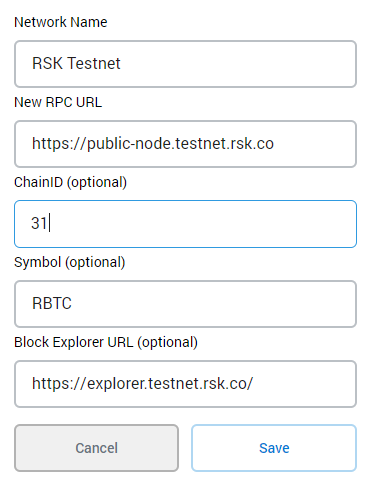
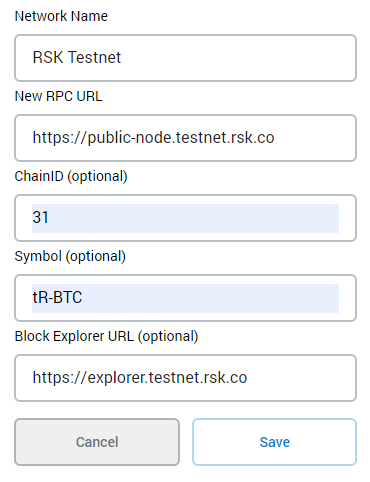
rsk port ethereum dapps

Changed region(s): [[0.0297, 0.0, 0.9811, 0.9647], [0.9514, 0.4046, 0.9811, 0.4979]]

diff --git a/content/blog/2020/rsk-port-ethereum-dapps/draft.md b/content/blog/2020/rsk-port-ethereum-dapps/draft.md
@@ -1,0 +1,193 @@
+---
+title: Migrando dApps do Ethereum para RSK
+date: "2020-07-15T18:00:00.000Z"
+description: "Conheça as possibilidades para migrar seus smart contracts e aplicações Ethereum para a rede RSK."
+tags: tutorial, rsk, ethereum, smart-contracts, truffle, remix
+type: blog
+---
+
+![Title](/images/image-00.png)
+
+# Overview
+
+Smart contracts na RSK são escritos em Solidity, que é a mesma linguagem dos Smart Contracts Ethereum. Desta forma não é necessário fazer nenhuma alteração para migrar um smart contract do Ethereum para RSK. Neste tutorial eu mostrarei algumas formas para realizar esta migração.
+
+Para saber mais sobre a linguagem Solidity, consulte sua [documentação](https://solidity.readthedocs.io/).
+
+Arquivos Solidity possuem a extensão `.sol`. Você pode criar ou alterar este tipo de arquivo em qualquer editor de texto, mas é mais produtivo utilizar editores específicos para linguagens de programação porque eles contém formatação, cores e verificação de sintaxe que facilitam a vida.
+
+Eu utilizo o [Visual Studio Code (VS Code)](https://code.visualstudio.com/).
+
+# Como publicar um smart contract na rede RSK
+
+Já falamos anteriormente que nada muda do smart contract Ethereum para o smart contract RSK. 
+
+Então... o que muda? 
+
+> Muda apenas a configuração de rede!
+
+Neste tutorial serão apresentadas instruções para a configuração de rede em 2 ferramentas diferentes:
+
+1. Remix
+2. Truffle
+
+# Remix
+
+Remix é uma ferramenta online. É um IDE (Integrated Development Environment - ambiente de desenvolvimento integrado) utilizado para escrever, compilar, publicar e depurar código fonte em Solidity. Pode ser conectado a uma carteira web, e em consequência disto, qualquer rede configurada nesta carteira.
+
+Pode ser acessado em [remix.ethereum.org](https://remix.ethereum.org/)
+
+Para utilizar o Remix, é preciso configurar a rede RSK em uma carteira web, como, por exemplo, o Metamask.
+
+## Metamask
+
+Vá em [metamask.io](https://metamask.io/) e faça a instalação.
+
+Crie uma conta / carteira.
+
+Salve seu mnemônico, ou frase de backup, ou seed (tudo isso significa a mesma coisa), com 12 palavras. Estas palavras serão a única forma de recuperar sua conta, se você esquecer ou perder sua senha.
+
+> O mnemônico é a parte mais importante em uma conta / carteira!
+
+## Conectando MetaMask a RSK testnet
+
+- Vá em networks / redes
+- Custom RPC
+
+![networks - custom RPC](/images/image-01.png)
+
+- Network Name / nome da rede
+
+    RSK Testnet
+
+- New RPC URL
+
+    [https://public-node.testnet.rsk.co](https://public-node.testnet.rsk.co)
+
+- ChainID (opcional)
+
+    31
+
+- Symbol / símbolo (opcional)
+
+    tR-BTC
+
+- Block Explorer URL (opcional)
+
+    https://explorer.testnet.rsk.co
+
+
+![RSK Testnet configuration](/images/image-02.png)
+
+Depois de configurar, feche a janela de configuração e selecione RSK Tesnet.
+
+## TestNet Faucet
+
+Para fazer a publicação, é preciso ter tR-BTCs na testnet.
+
+Você pode receber alguns em [faucet.testnet.rsk.co](https://faucet.testnet.rsk.co/).
+
+![faucet](/images/image-03.png)
+
+## Configurando o Remix
+
+Vá em [remix.ethereum.org](http://remix.ethereum.org/)
+
+![remix](/images/image-04.png)
+
+Na página inicial - home / welcome page, escolha o ambiente / environment `Solidity`.
+
+![Remix environment Solidity](/images/image-05.png)
+
+## Conectando o Remix a RSK Testnet através do Metamask
+
+Com a RSK network selecionada no Metamask...
+
+No painel à esquerda, clique no botão `Deploy and run transactions`. 
+Atualmente é o 4o botão.
+
+![deploy and run transactions](/images/image-06.png)
+
+Em Environment, escolha `Injected Web3`
+
+![Injected Web3](/images/image-10.png)
+
+Injected Web3 conecta Remix com a conta ativa / selecionada no Metamask
+
+![Injected Web3 - ChainID 31](/images/image-11.png)
+
+ChainID 31 foi definida na configuração da RSK Testnet no Metamask.
+
+Tudo pronto! Agora é possível fazer a publicação de qualquer smart contract na testnet RSK!
+
+O tutorial [Crie seu primeiro smart contract utilizando Remix e Metamask com a RSK testnet](https://solange.dev/2020/2020-03-27-Rsk-RemixMetamask/) contem mais detalhes e um smart contract básico para publicar. Confira como:
+
+1. Configurar Metamask para se conectar a testnet RSK;
+1. Adquirir alguns testnet R-BTCs no faucet;
+1. Conectar Remix com a RSK Testnet;
+1. Criar um smart contract no Remix;
+1. Compilar;
+1. Fazer a publicação na RSK Testnet utilizando Remix;
+1. Interagir com o smart contract;
+
+# Truffle
+
+[Truffle](https://www.trufflesuite.com/truffle) é um conhecido framework para desenvolvimento de smart contracts, que facilita a vida do desenvolvedor.
+
+Para conectá-lo à rede RSK network, utilizaremos um pacote provedor que possibilida a conexão a qualquer rede desbloqueando uma conta localmente:  
+[@truffle/hdwallet-provider](https://www.npmjs.com/package/@truffle/hdwallet-provider). 
+Desta forma é possível desbloquear uma conta localmente, a partir de um mnemônico. Isto inclui as redes da RSK. 
+
+Na parte de redes do Truffle config, é definido um provider utilizando o mnemônico gerador da carteira e apontando para o nó público da testnet RSK, através do `HD wallet provider`.
+
+`HD wallet provider` também é utilizado nas redes Ethereum, geralmente em conjunto com [Infura](https://infura.io/)para fazer a conexão à rede. `Infura` disponibiliza uma estrutura de nós para a rede Ethereum, seja a MainNet ou as diversas TestNets.
+
+Um ponto a destacar na configuração de uma rede é verificar o `gas price`. Sem esta verificação, a publicação de um smart contract pode ser demorada ou até mesmo apresentar erros e não acontecer. A rede Ethereum, por exemplo, neste momento (julho/2020), está com um gas price elevado nestes últimos meses devido ao grande número de transações relacionadas a DeFi - Decentralized Finance. Também é importante verificar o `gas price` na rede RSK.
+
+O tutorial [Como criar um projeto utilizando Truffle e OpenZeppelin conectado à rede RSK](https://solange.dev/2020/2020-05-10-Rsk-SetupTruffleOZ/) explica detalhadamente como:
+
+1. Instalar o Truffle;
+2. Inicializar um projeto utilizando Truffle;
+3. Instalar HD wallet provider;
+4. Criar um mnemônico para uma carteira;
+5. Adquirir alguns tR-BTCs no faucet;
+6. Testar a conexão à testnet RSK;
+7. Verificar o gas price na rede;
+8. Configurar Truffle para conectar à rede RSK;
+
+Depois de tudo configurado, minha sugestão é começar publicando através do Truffle o mesmo smart contract utilizado na publicação com o Remix :)
+
+# Próximos passos
+
+Aqui estão alguns tutoriais onde faremos projetos bem legais!
+
+Escolha um destes para começar:
+
+- [Crie seu primeiro token](https://solange.dev/2020/2020-04-26-Rsk-CreateToken/)
+- [Crie seu token colecionável na rede RSK](https://solange.dev/2020/2020-05-11-Rsk-CreateTokenNFT/)
+
+Você pode publicá-los na RSK ou Ethereum :)
+
+# Frontend
+
+O que acontece com o frontend de uma dApp que está configurada para a rede Ethereum? Muda alguma coisa?
+
+Não muda nada! Se a sua dApp está configurada para utilizar `Injected Web3`, ela vai continuar utilizando a conexão à carteira. Se a rede RSK está selecionada na carteira, está tudo pronto!
+
+Caso o frontend esteja acessando um nó local, este tutorial que eu escrevi apresenta a configuração:
+
+* [Create a frontend for smart contracts using web3 connected to a local node](https://developers.rsk.co/tutorials/frontend/frontend-web3-local/)
+
+Está em inglês, mas se você gostaria de ler a tradução dele, é só avisar :)
+
+# Considerações finais
+
+Neste tutorial eu mostrei opções e configurações para publicar smart contracts Ethereum na rede RSK.
+
+Nosso objetivo é unir forças e dar opções para as pessoas que acreditam poder dos smart contracts baseados em Ethereum e também na segurança do Bitcoin, fazer isso na rede RSK.
+
+Espero que esse tutorial tenha sido útil e agradeço caso tenha algum feedback para mim. Compartilhe o artigo caso tenha gostado :)
+
+Se quiser aprender com videos, assine meu canal: 
+<a href="https://www.youtube.com/user/solangegueiros" target="_blank"> youtube Solange Gueiros</a>
+

diff --git a/content/blog/2020/rsk-port-ethereum-dapps/index.md b/content/blog/2020/rsk-port-ethereum-dapps/index.md
@@ -1,0 +1,125 @@
+---
+title: Migrando dApps do Ethereum para RSK
+date: "2020-07-15T18:00:00.000Z"
+description: "Conheça as possibilidades para migrar seus smart contracts e aplicações Ethereum para a rede RSK."
+tags: tutorial, rsk, ethereum, smart-contracts, truffle, remix
+type: blog
+---
+
+![Title](/images/image-00.png)
+
+# Overview
+
+Smart contracts na RSK são escritos em Solidity, que é a mesma linguagem dos Smart Contracts Ethereum. Desta forma não é necessário fazer nenhuma alteração para migrar um smart contract do Ethereum para RSK. Neste tutorial eu mostrarei algumas formas para realizar esta migração.
+
+Para saber mais sobre a linguagem Solidity, consulte sua [documentação](https://solidity.readthedocs.io/).
+
+Arquivos Solidity possuem a extensão `.sol`. Você pode criar ou alterar este tipo de arquivo em qualquer editor de texto, mas é mais produtivo utilizar editores específicos para linguagens de programação porque eles contém formatação, cores e verificação de sintaxe que facilitam a vida.
+
+Eu utilizo o [Visual Studio Code (VS Code)](https://code.visualstudio.com/).
+
+# Como publicar um smart contract na rede RSK
+
+Já falamos anteriormente que nada muda do smart contract Ethereum para o smart contract RSK. 
+
+Então... o que muda? 
+
+> Muda apenas a configuração de rede!
+
+Neste tutorial serão apresentadas instruções para a configuração de rede em 2 ferramentas diferentes:
+
+1. Remix
+2. Truffle
+
+# Remix
+
+Remix é uma ferramenta online. É um IDE (Integrated Development Environment - ambiente de desenvolvimento integrado) utilizado para escrever, compilar, publicar e depurar código fonte em Solidity. Pode ser conectado a uma carteira web, e em consequência disto, qualquer rede configurada nesta carteira.
+
+Pode ser acessado em [remix.ethereum.org](https://remix.ethereum.org/)
+
+Para utilizar o Remix, é preciso configurar a rede RSK em uma carteira web, por exemplo, [Metamask](https://metamask.io/).
+
+
+## Conectando o Remix a RSK Testnet através do Metamask
+
+Com a RSK network selecionada no Metamask...
+
+No painel à esquerda, clique no botão `Deploy and run transactions`. 
+Atualmente é o 4o botão.
+
+Em Environment, escolha `Injected Web3`
+
+Injected Web3 conecta Remix com a conta ativa / selecionada no Metamask.
+
+Tudo pronto! Agora é possível fazer a publicação de qualquer smart contract na testnet RSK!
+
+O tutorial [Crie seu primeiro smart contract utilizando Remix e Metamask com a RSK testnet](https://solange.dev/2020/2020-03-27-Rsk-RemixMetamask/) contem mais detalhes e um smart contract básico para publicar. Confira como:
+
+1. Configurar Metamask para se conectar a testnet RSK;
+1. Adquirir alguns testnet R-BTCs no faucet;
+1. Conectar Remix com a RSK Testnet;
+1. Criar um smart contract no Remix;
+1. Compilar;
+1. Fazer a publicação na RSK Testnet utilizando Remix;
+1. Interagir com o smart contract;
+
+# Truffle
+
+[Truffle](https://www.trufflesuite.com/truffle) é um conhecido framework para desenvolvimento de smart contracts, que facilita a vida do desenvolvedor.
+
+Para conectá-lo à rede RSK network, utilizaremos um pacote provedor que possibilida a conexão a qualquer rede desbloqueando uma conta localmente:  
+[@truffle/hdwallet-provider](https://www.npmjs.com/package/@truffle/hdwallet-provider). 
+Desta forma é possível desbloquear uma conta localmente, a partir de um mnemônico. Isto inclui as redes da RSK. 
+
+Na parte de redes do Truffle config, é definido um provider utilizando o mnemônico gerador da carteira e apontando para o nó público da testnet RSK, através do `HD wallet provider`.
+
+`HD wallet provider` também é utilizado nas redes Ethereum, geralmente em conjunto com [Infura](https://infura.io/)para fazer a conexão à rede. `Infura` disponibiliza uma estrutura de nós para a rede Ethereum, seja a MainNet ou as diversas TestNets.
+
+Um ponto a destacar na configuração de uma rede é verificar o `gas price`. Sem esta verificação, a publicação de um smart contract pode ser demorada ou até mesmo apresentar erros e não acontecer. A rede Ethereum, por exemplo, neste momento (julho/2020), está com um gas price elevado nestes últimos meses devido ao grande número de transações relacionadas a DeFi - Decentralized Finance. Também é importante verificar o `gas price` na rede RSK.
+
+O tutorial [Como criar um projeto utilizando Truffle e OpenZeppelin conectado à rede RSK](https://solange.dev/2020/2020-05-10-Rsk-SetupTruffleOZ/) explica detalhadamente como:
+
+1. Instalar o Truffle;
+2. Inicializar um projeto utilizando Truffle;
+3. Instalar HD wallet provider;
+4. Criar um mnemônico para uma carteira;
+5. Adquirir alguns tR-BTCs no faucet;
+6. Testar a conexão à testnet RSK;
+7. Verificar o gas price na rede;
+8. Configurar Truffle para conectar à rede RSK;
+
+Depois de tudo configurado, minha sugestão é começar publicando através do Truffle o mesmo smart contract utilizado na publicação com o Remix :)
+
+# Próximos passos
+
+Aqui estão alguns tutoriais onde faremos projetos bem legais!
+
+Escolha um destes para começar:
+
+- [Crie seu primeiro token](https://solange.dev/2020/2020-04-26-Rsk-CreateToken/)
+- [Crie seu token colecionável na rede RSK](https://solange.dev/2020/2020-05-11-Rsk-CreateTokenNFT/)
+
+Você pode publicá-los na RSK ou Ethereum :)
+
+# Frontend
+
+O que acontece com o frontend de uma dApp que está configurada para a rede Ethereum? Muda alguma coisa?
+
+Não muda nada! Se a sua dApp está configurada para utilizar `Injected Web3`, ela vai continuar utilizando a conexão à carteira. Se a rede RSK está selecionada na carteira, está tudo pronto!
+
+Caso o frontend esteja acessando um nó local, este tutorial que eu escrevi apresenta a configuração:
+
+* [Create a frontend for smart contracts using web3 connected to a local node](https://developers.rsk.co/tutorials/frontend/frontend-web3-local/)
+
+Está em inglês, mas se você gostaria de ler a tradução dele, é só avisar :)
+
+# Considerações finais
+
+Neste tutorial eu mostrei opções e configurações para publicar smart contracts Ethereum na rede RSK.
+
+Nosso objetivo é unir forças e dar opções para as pessoas que acreditam poder dos smart contracts baseados em Ethereum e também na segurança do Bitcoin, fazer isso na rede RSK.
+
+Espero que esse tutorial tenha sido útil e agradeço caso tenha algum feedback para mim. Compartilhe o artigo caso tenha gostado :)
+
+Se quiser aprender com videos, assine meu canal: 
+<a href="https://www.youtube.com/user/solangegueiros" target="_blank"> youtube Solange Gueiros</a>

diff --git a/content/blog/2020/2020-05-10-Rsk-SetupTruffleOZ/index.md b/content/blog/2020/2020-05-10-Rsk-SetupTruffleOZ/index.md
@@ -129,8 +129,8 @@ code -v
 
 ## Truffle
 
-Truffle é um conhecido framework para desenvolvimento de smart contract, que facilita a vida do desenvolvedor.
-Entre suas características, podemos citar o gerenciamento da "vida" de um smart contract (voce pode fazer várias publicações e saber qual foi a última), desenvolvimento de scripts para deploy, testes automatizados e gerenciamento de rede simplificado.
+[Truffle](https://www.trufflesuite.com/truffle) é um conhecido framework para desenvolvimento de smart contracts, que facilita a vida do desenvolvedor.
+Entre suas características, podemos citar o gerenciamento da "vida" de um smart contract (você pode fazer várias publicações e saber qual foi a última), desenvolvimento de scripts para deploy, testes automatizados e gerenciamento de rede simplificado.
 
 Da mesma forma também facilita o desenvolvedor RSK porque podemos configurar as redes RSK no Truffle.
 
@@ -149,10 +149,6 @@ truffle version
 ```
 
 ![truffle version](/images/image-06.png)
-
-Mais informações:
-
-[trufflesuite.com/truffle](https://www.trufflesuite.com/truffle)
 
 # Nó local RSK - regtest
 
@@ -400,8 +396,8 @@ Mais informações:
 # Instale o HD wallet provider
 
 Para conectar a rede RSK network, utilizaremos um pacote provedor que possibilida a conexão a qualquer rede desbloqueando uma conta localmente. 
-Utilizaremos `@truffle/hdwallet-provider`. 
-Pode ser utilizada para assinar transações de endereços gerados a partir de um mnemônico com 12 ou 24 palavras.
+Utilizaremos [@truffle/hdwallet-provider](https://www.npmjs.com/package/@truffle/hdwallet-provider). 
+Este provedor possibilita assinar transações de endereços gerados a partir de um mnemônico com 12 ou 24 palavras.
 
 > Precisa ter instalado o Node >= 7.6.
 

diff --git a/content/blog/2020/2020-03-27-Rsk-RemixMetamask/index.md b/content/blog/2020/2020-03-27-Rsk-RemixMetamask/index.md
@@ -84,7 +84,7 @@ Vou colocar alguns termos em inglês também:
 
 - Block Explorer URL (opcional)
 
-    https://explorer.testnet.rsk.co/
+    https://explorer.testnet.rsk.co
 
 
 ![RSK Testnet configuration](/images/image-02.png)
